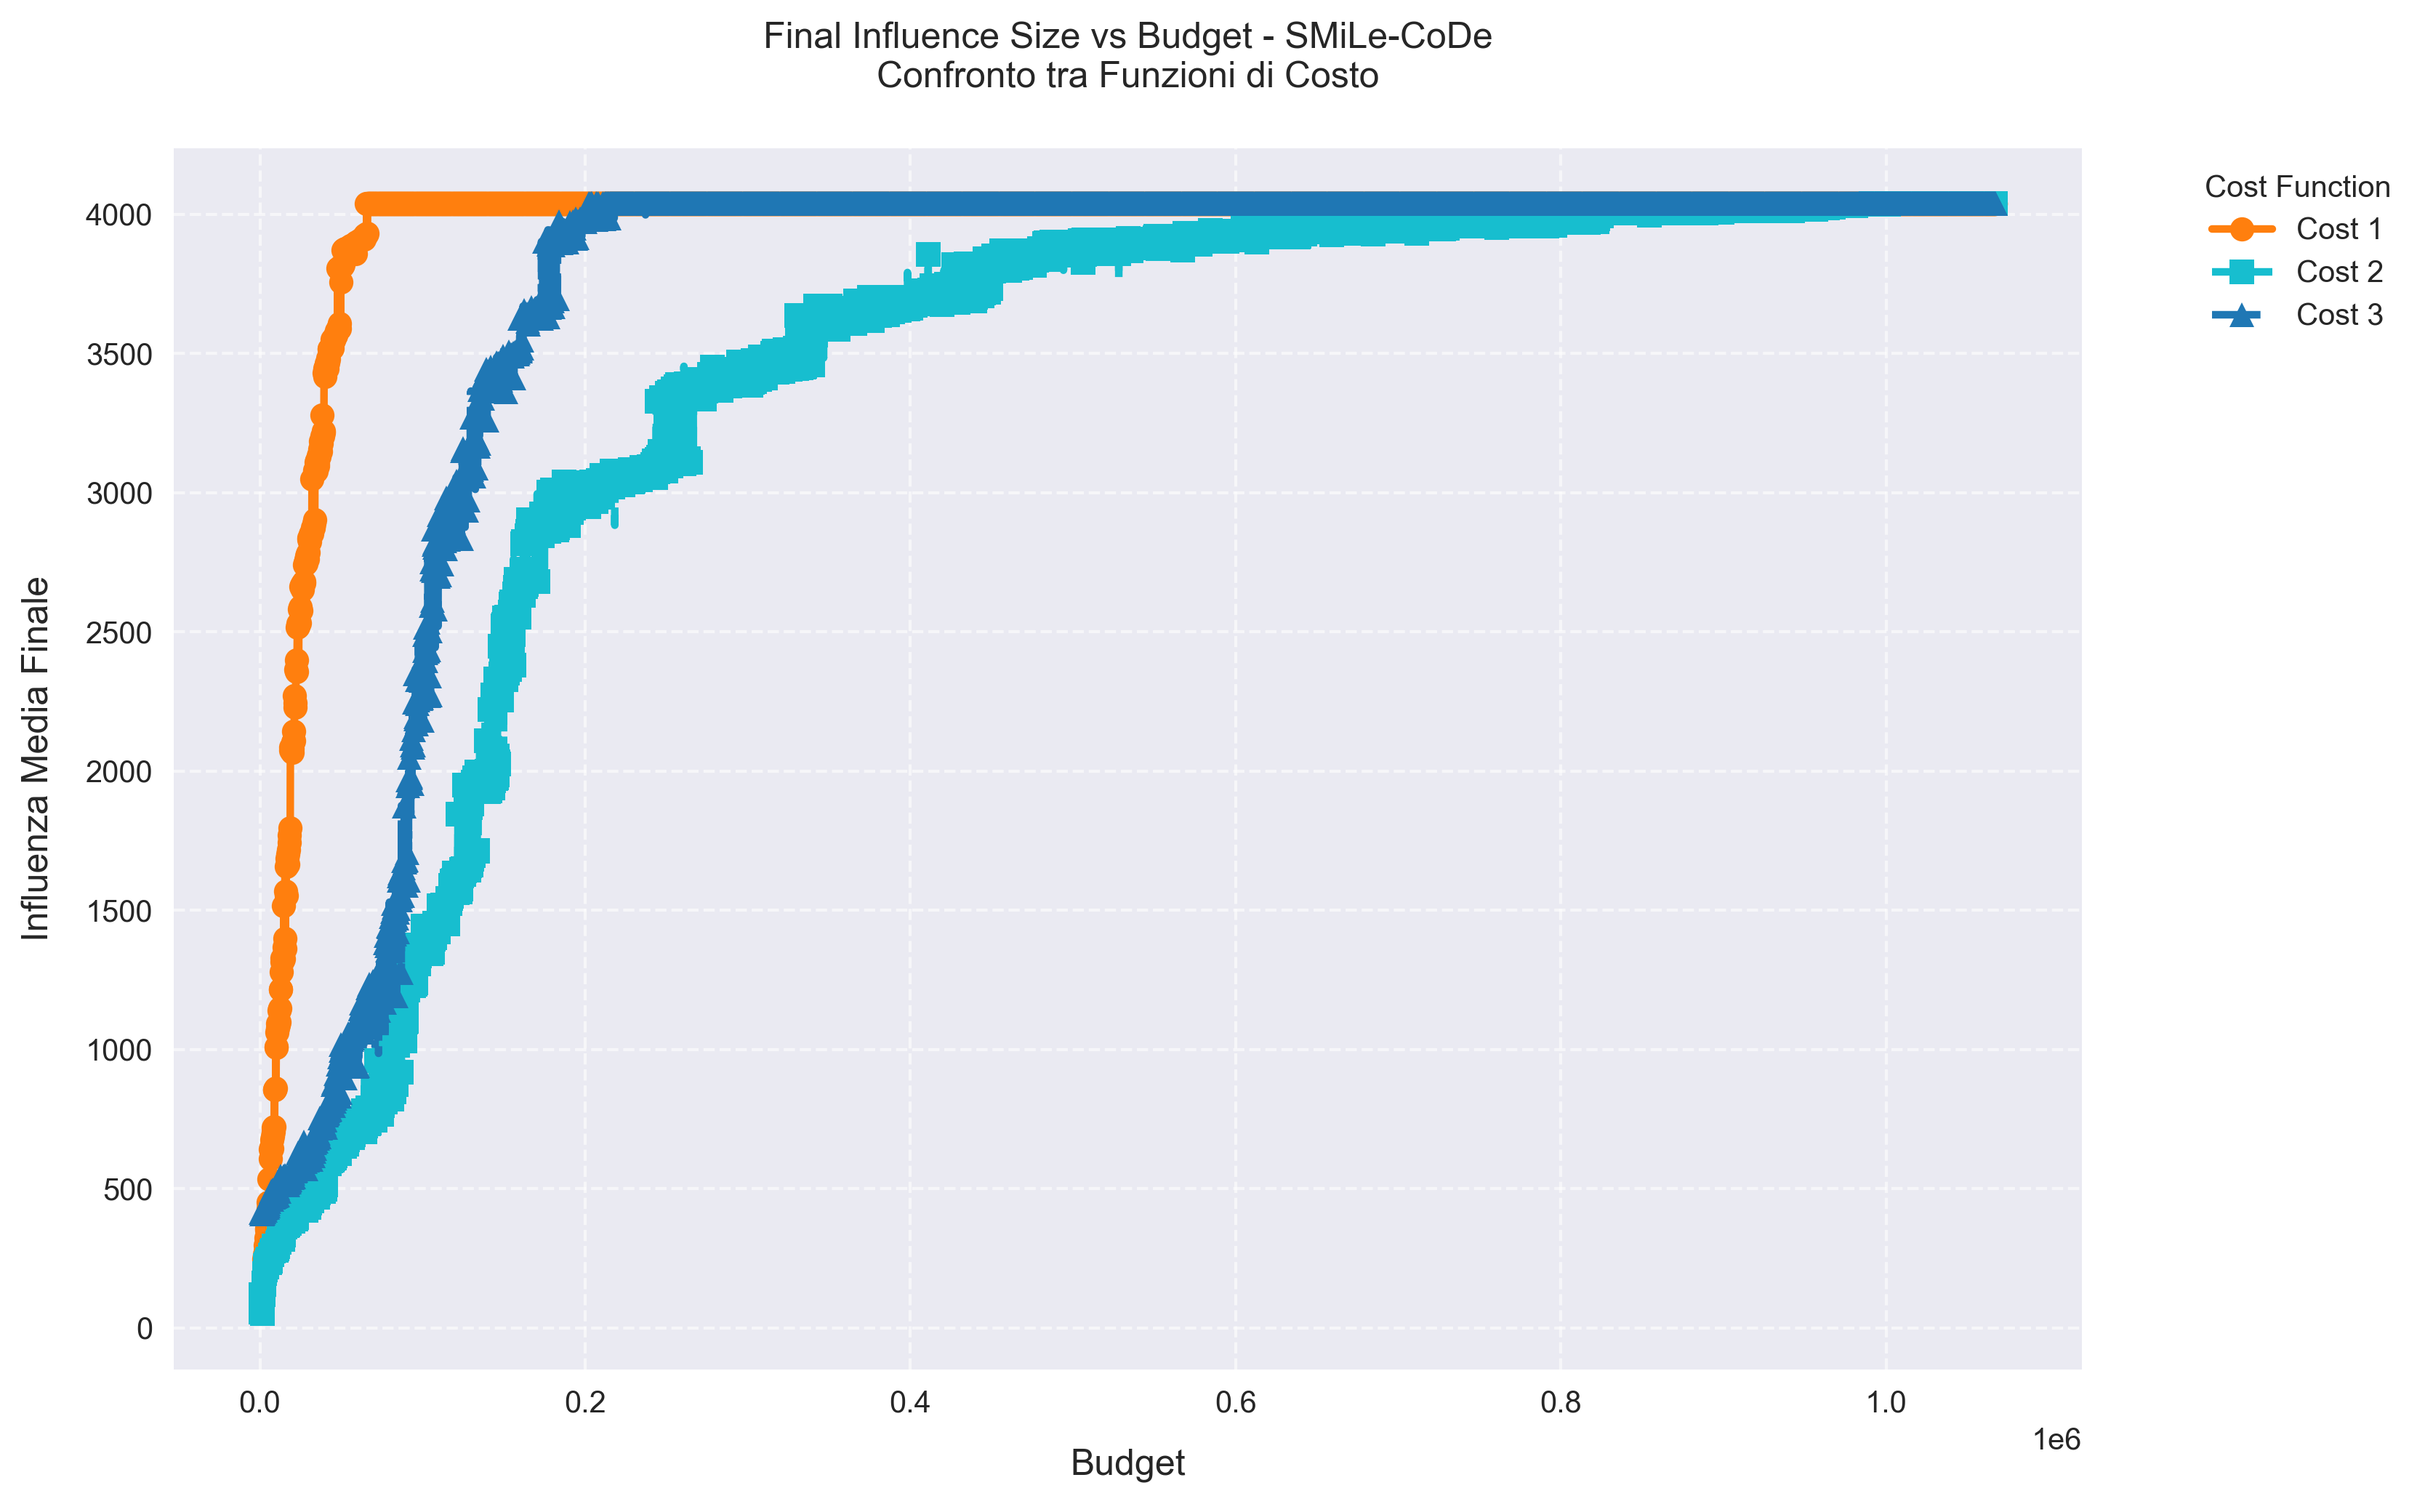
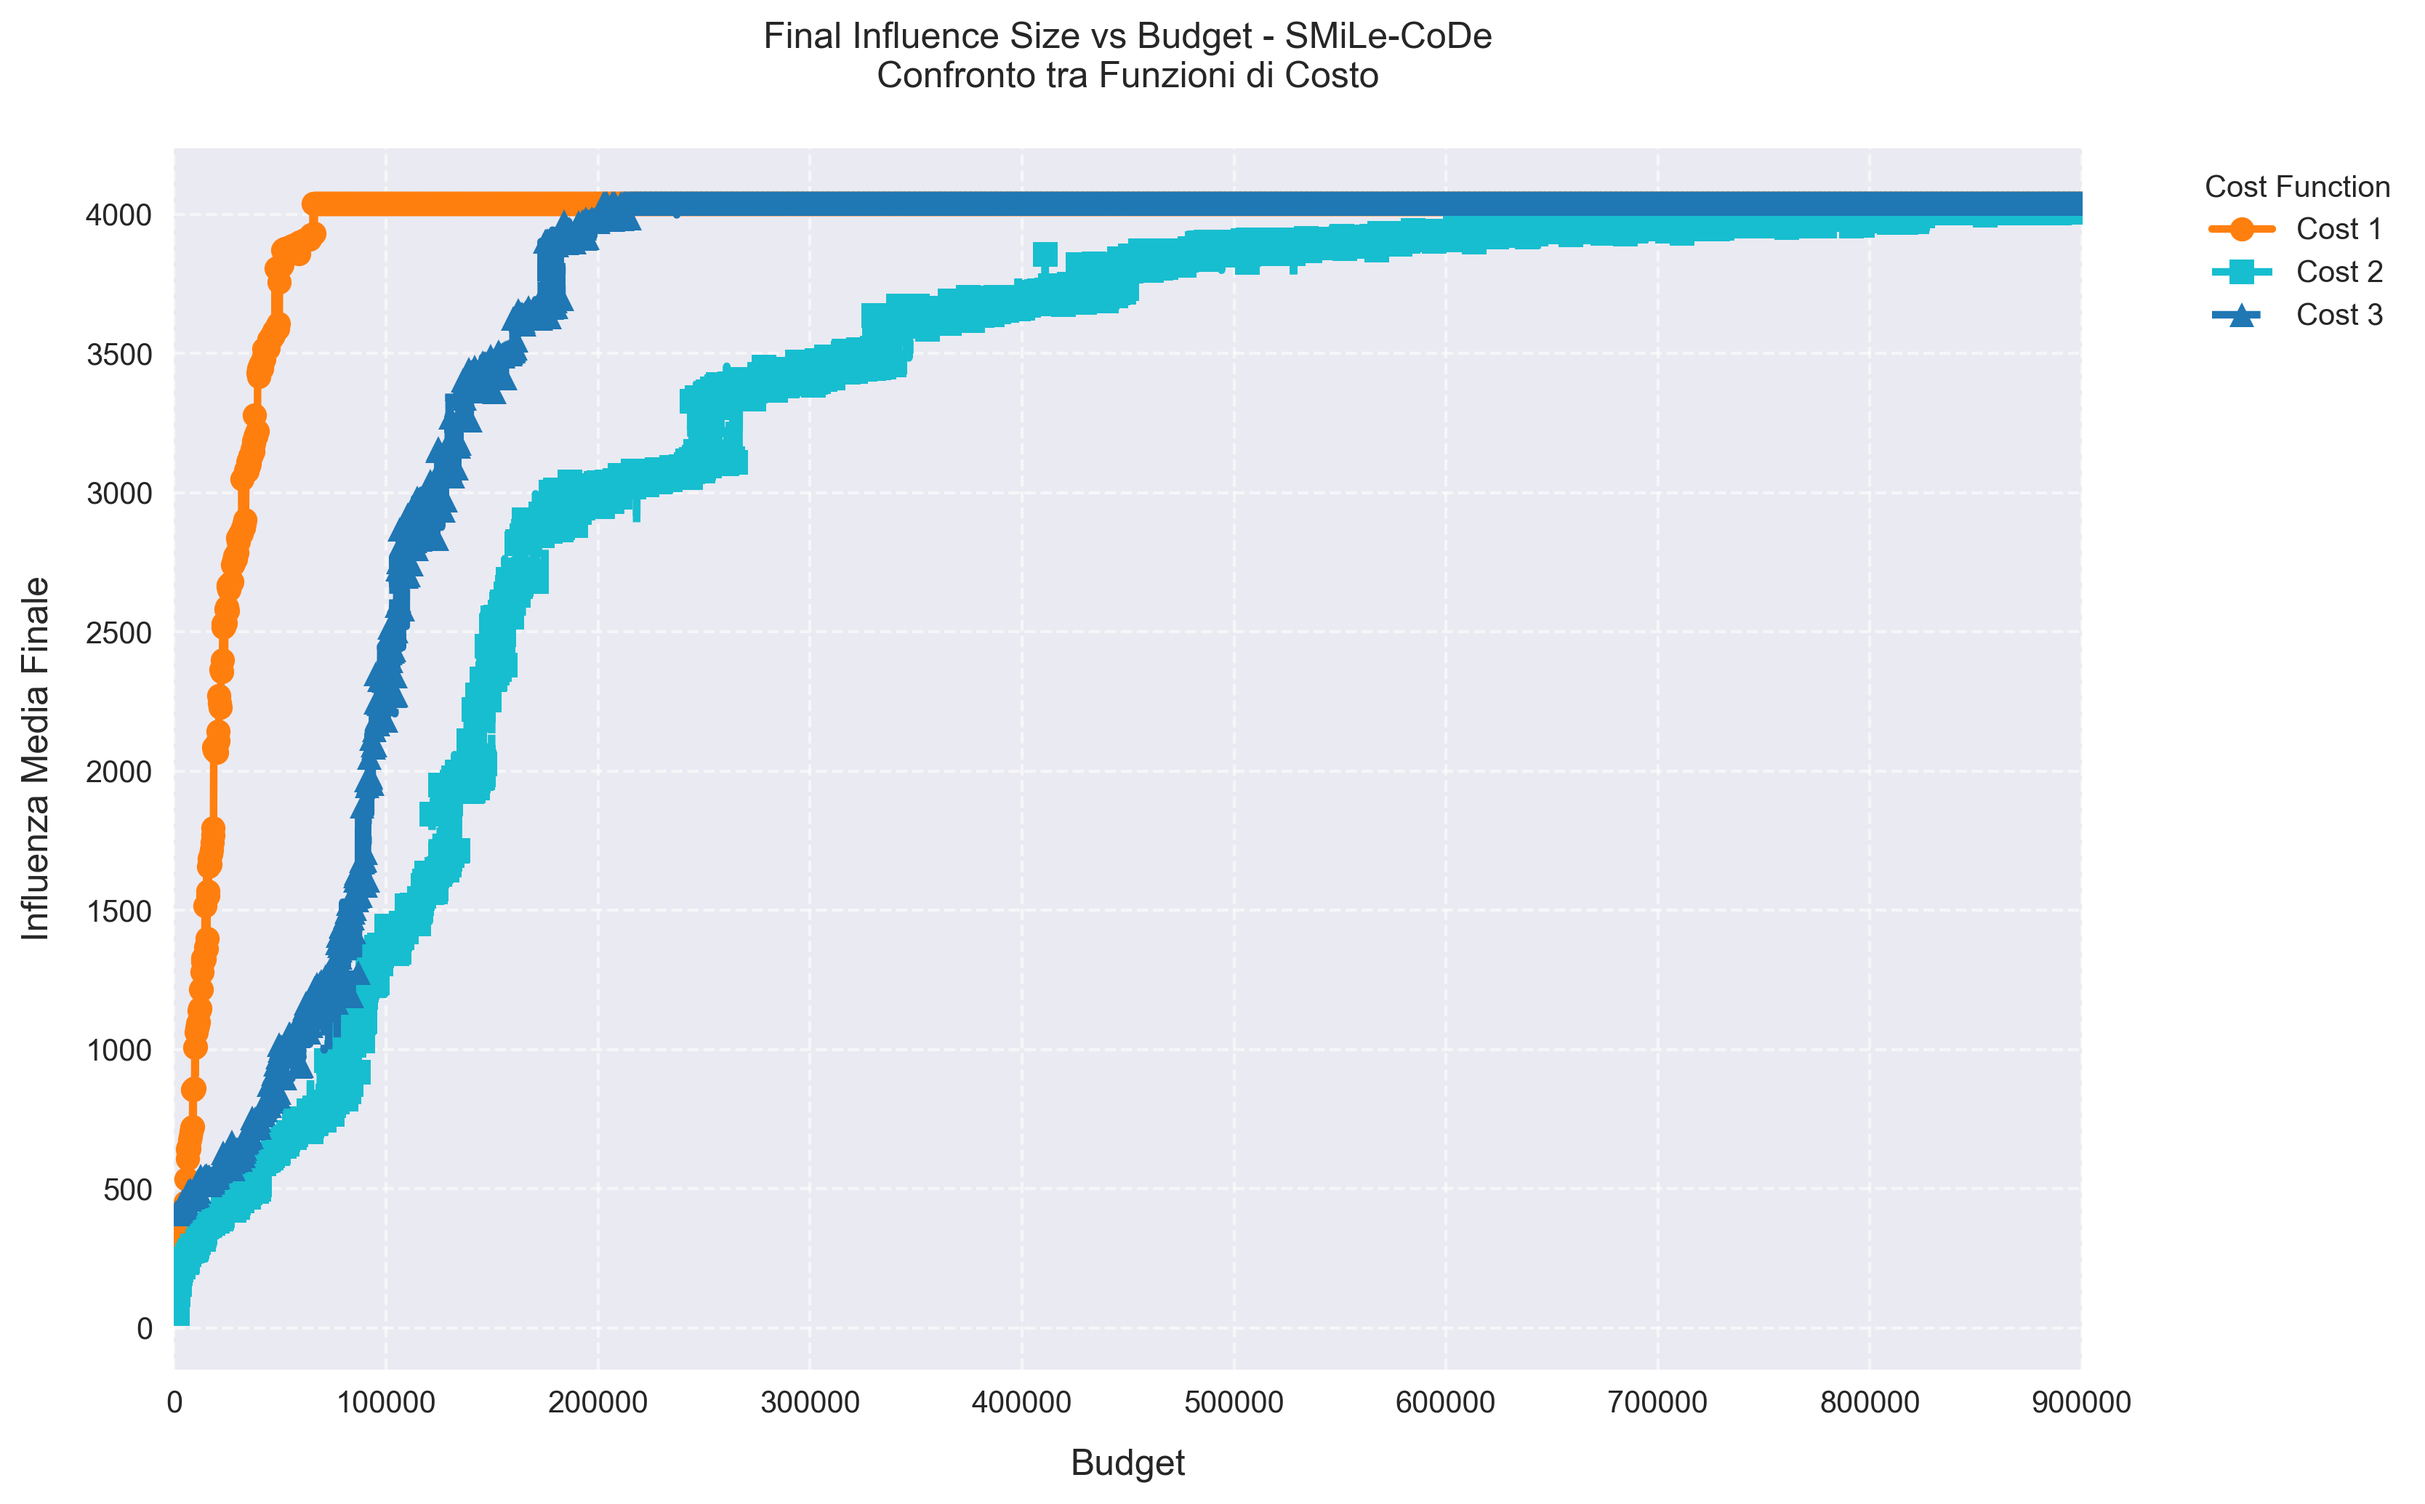
Fix xlim in plot influence vs budget

diff --git a/final_graphs/plot_final_graphs.py b/final_graphs/plot_final_graphs.py
@@ -194,6 +194,8 @@ def plot_budget_vs_influence(df, title, save_path):
 
         plt.title(title, pad=20)
 
+    plt.xlim(0, 900000)
+
     plt.xlabel("Budget", fontsize=12, labelpad=10)
     plt.ylabel("Influenza Media Finale", fontsize=12, labelpad=10)
     ax = plt.gca()
@@ -412,7 +414,7 @@ def main():
         fname += ".png"
         save_path = os.path.join(PLOTS_DIR, fname)
 
-        # plot_budget_vs_influence(df, title, save_path)
+        plot_budget_vs_influence(df, title, save_path)
 
         base_name = ""
         title = ""
@@ -424,7 +426,7 @@ def main():
             base_name += f"cost{args.cost}"
 
         # plot_execution_time_comparison(df, title, os.path.join(PLOTS_DIR, f"{base_name}_execution_time.png"))
-        plot_budget_vs_seed_size(df, title, os.path.join(PLOTS_DIR, f"{base_name}_budget_vs_seeds.png"))
+        # plot_budget_vs_seed_size(df, title, os.path.join(PLOTS_DIR, f"{base_name}_budget_vs_seeds.png"))
         # plot_influence_distribution(df, title, os.path.join(PLOTS_DIR, f"{base_name}_influence_dist.png"))
 
     except Exception as e:
